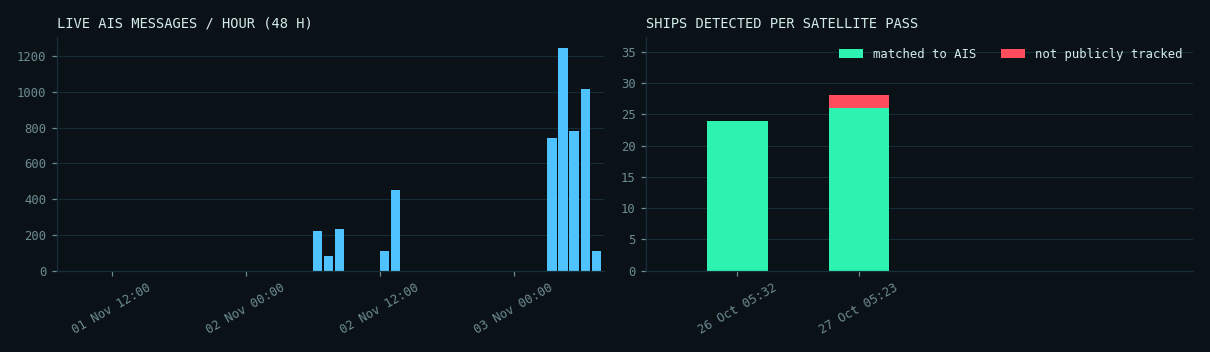
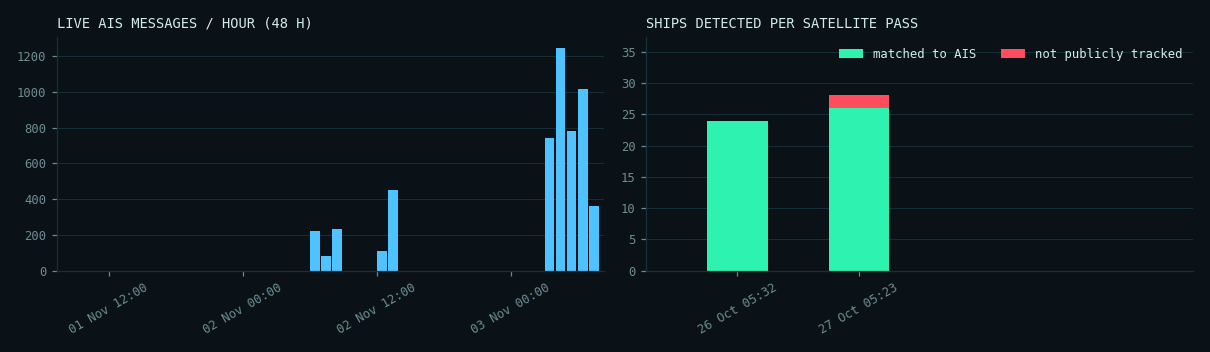
Automatic site update 2026-11-03 07:20 UTC

diff --git a/docs/denmark/index.html b/docs/denmark/index.html
@@ -83,13 +83,13 @@ footer{border-top:1px solid var(--line);padding:18px 0 28px;font:12px/1.6 var(--
   <div><div class="kicker">SAR &times; AIS &middot; MARITIME AWARENESS</div><div class="title">DARK VESSEL <b>DETECTION</b></div></div></a>
  <div class="status"><span class="pill"><span class="dot live"></span>AIS FEED <strong>LIVE</strong></span>
   <span class="pill">UTC <strong id="utc">--:--:--</strong></span>
-  <span class="pill">UPDATED <strong>03 Nov 07:06</strong></span></div>
+  <span class="pill">UPDATED <strong>03 Nov 07:20</strong></span></div>
 </div><nav class="tabs"><a class="" href="../index.html">OVERVIEW</a><a class="" href="../mumbai/index.html">MUMBAI</a><a class="on" href="../denmark/index.html">DENMARK</a><a class="" href="../nn/index.html">NEURAL NET</a><a class="" href="../demo/index.html">SIMULATION</a></nav></div></header>
 <main class="wrap"><div class="coords">SECTOR // DENMARK &middot; 55.55&ndash;55.85&deg;N &middot; 12.55&ndash;12.95&deg;E</div>
 <h1>Oresund, Copenhagen (Denmark/Sweden)</h1><p class="lede">Validation area. Sentinel-1 images it almost daily and coastal AIS coverage is dense, so the full match between radar and AIS can be shown and checked.</p>
 <div class="grid">
  <div class="panel"><div class="label">Live AIS feed</div><div class="value small"><span class='ok'>RECEIVING</span></div><div class="muted mono" style="font-size:12px;margin-top:6px">last message 0 min ago</div></div>
- <div class="panel"><div class="label">Ships broadcasting &middot; 30 min</div><div class="value cyan">56</div></div>
+ <div class="panel"><div class="label">Ships broadcasting &middot; 30 min</div><div class="value cyan">58</div></div>
  <div class="panel"><div class="label">Matched &middot; latest pass</div><div class="value ">26</div></div>
  <div class="panel"><div class="label">Not tracked &middot; high confidence</div><div class="value red">0</div></div>
  <div class="panel"><div class="label">Not tracked &middot; low confidence</div><div class="value amber">2</div></div>
@@ -98,7 +98,7 @@ footer{border-top:1px solid var(--line);padding:18px 0 28px;font:12px/1.6 var(--
 <div class="legend"><span><i style="background:var(--green)"></i>matched to AIS</span><span><i style="background:var(--red)"></i>not tracked &middot; high confidence</span>
 <span><i style="background:var(--amber)"></i>not tracked &middot; low confidence</span><span><i style="background:var(--cyan)"></i>live AIS position</span></div>
 <div id="map" class="map"></div><script>
-const D=[{"lon": 12.574560869565218, "lat": 55.849597826086956, "length_m": 72.681575622935, "score": 0.6554655519501138, "shore_km": 0.14150886088341372, "status": "matched", "reason": "", "confidence": "high", "crop": "", "ship_prob": 0.9335045218467712}, {"lon": 12.704759174311928, "lat": 55.82280412844037, "length_m": 364.1071436957287, "score": 0.9904753373251979, "shore_km": 9.407061429825474, "status": "matched", "reason": "", "confidence": "high", "crop": "", "ship_prob": 0.9868959784507751}, {"lon": 12.786416463414636, "lat": 55.804669512195126, "length_m": 155.0522474362954, "score": 0.9999646038759398, "shore_km": 4.658419014138412, "status": "matched", "reason": "", "confidence": "high", "crop": "", "ship_prob": 0.9993557333946228}, {"lon": 12.88229375, "lat": 55.849146875, "length_m": 53.38783327710226, "score": 0.9899546194309776, "shore_km": 0.9067240720863213, "status": "candidate", "reason": "same_spot_in_another_pass", "confidence": "low", "crop": "crops/S1-Oresund-20261027_37.png", "ship_prob": 0.7905591130256653}, {"lon": 12.604004166666668, "lat": 55.75985, "length_m": 141.84238362073958, "score": 0.6867268898684522, "shore_km": 0.07168283192738693, "status": "matched", "reason": "", "confidence": "high", "crop": "", "ship_prob": 0.5051270127296448}, {"lon": 12.605736764705883, "lat": 55.75241323529412, "length_m": 122.11483240811877, "score": 0.9136889320646264, "shore_km": 0.6454382429486746, "status": "candidate", "reason": "same_spot_in_another_pass", "confidence": "low", "crop": "crops/S1-Oresund-20261027_77.png", "ship_prob": 0.7927113175392151}, {"lon": 12.703722571428573, "lat": 55.77917742857143, "length_m": 223.0817648726515, "score": 0.9996320924909895, "shore_km": 5.943270442766068, "status": "matched", "reason": "", "confidence": "high", "crop": "", "ship_prob": 0.9938097596168518}, {"lon": 12.902757692307693, "lat": 55.75654230769231, "length_m": 65.46226537445588, "score": 0.7187896049600956, "shore_km": 0.03584141596369347, "status": "matched", "reason": "", "confidence": "high", "crop": "", "ship_prob": 0.8691755533218384}, {"lon": 12.589922222222222, "lat": 55.725764814814816, "length_m": 146.45480845096748, "score": 0.9957587025210503, "shore_km": 0.034771280891766385, "status": "matched", "reason": "", "confidence": "high", "crop": "", "ship_prob": 0.9983701109886169}, {"lon": 12.598472047244096, "lat": 55.72077913385827, "length_m": 207.62671185403417, "score": 0.609772230082722, "shore_km": 0.14016751439395445, "status": "matched", "reason": "", "confidence": "high", "crop": "", "ship_prob": 0.6074324250221252}, {"lon": 12.589218, "lat": 55.712854, "length_m": 90.49550243938293, "score": 0.6486089656085543, "shore_km": 0.043464101114707984, "status": "matched", "reason": "", "confidence": "high", "crop": "", "ship_prob": 0.9998902082443237}, {"lon": 12.59024090909091, "lat": 55.71147090909091, "length_m": 162.54265478639104, "score": 1.0, "shore_km": 0.06146752127277559, "status": "matched", "reason": "", "confidence": "high", "crop": "", "ship_prob": 0.9999992847442627}, {"lon": 12.597835937500001, "lat": 55.701648437500005, "length_m": 133.31776511703256, "score": 0.9396217092764791, "shore_km": 0.06789309632894441, "status": "matched", "reason": "", "confidence": "high", "crop": "", "ship_prob": 0.9999727010726929}, {"lon": 12.60914, "lat": 55.69712, "length_m": 65.36743236464424, "score": 0.7827588237578229, "shore_km": 0.03134240904220623, "status": "matched", "reason": "", "confidence": "high", "crop": "", "ship_prob": 0.9867132902145386}, {"lon": 12.668552272727274, "lat": 55.72007840909091, "length_m": 207.26605497726354, "score": 0.6251792307103263, "shore_km": 0.03584141596369347, "status": "matched", "reason": "", "confidence": "high", "crop": "", "ship_prob": 0.9087074398994446}, {"lon": 12.5996, "lat": 55.68885, "length_m": 40.00855981470757, "score": 0.7664068666153926, "shore_km": 0.024587008509110237, "status": "matched", "reason": "", "confidence": "high", "crop": "", "ship_prob": 0.9766618013381958}, {"lon": 12.595819230769232, "lat": 55.67989871794872, "length_m": 127.62371588738732, "score": 0.9426870407335851, "shore_km": 0.05068741655051085, "status": "matched", "reason": "", "confidence": "high", "crop": "", "ship_prob": 0.9998841285705566}, {"lon": 12.594722222222224, "lat": 55.67918888888889, "length_m": 40.64467714079742, "score": 0.7639524834029205, "shore_km": 0.043464101114707984, "status": "matched", "reason": "", "confidence": "high", "crop": "", "ship_prob": 0.9999454021453857}, {"lon": 12.610660714285714, "lat": 55.69618571428572, "length_m": 94.51225356515693, "score": 0.9621795096736379, "shore_km": 0.03134240904220623, "status": "matched", "reason": "", "confidence": "high", "crop": "", "ship_prob": 0.999042809009552}, {"lon": 12.649045000000001, "lat": 55.692155, "length_m": 80.63364746000343, "score": 0.8515033668168979, "shore_km": 0.8863693295037299, "status": "matched", "reason": "", "confidence": "high", "crop": "", "ship_prob": 0.4333752989768982}, {"lon": 12.630751724137932, "lat": 55.685453448275865, "length_m": 125.00287123881988, "score": 0.93629426700422, "shore_km": 0.043464101114707984, "status": "matched", "reason": "", "confidence": "high", "crop": "", "ship_prob": 0.9975905418395996}, {"lon": 12.634987254901962, "lat": 55.677338235294116, "length_m": 276.5478352749318, "score": 0.7686103584091717, "shore_km": 0.024587008509110237, "status": "matched", "reason": "", "confidence": "high", "crop": "", "ship_prob": 0.9729636907577515}, {"lon": 12.68766150442478, "lat": 55.69581814159292, "length_m": 176.8074930452176, "score": 0.923202226335388, "shore_km": 2.6834920471942074, "status": "matched", "reason": "", "confidence": "high", "crop": "", "ship_prob": 0.8427141904830933}, {"lon": 12.65826847826087, "lat": 55.63610108695652, "length_m": 174.21377549767067, "score": 0.9833187000337672, "shore_km": 0.043464101114707984, "status": "matched", "reason": "", "confidence": "high", "crop": "", "ship_prob": 0.9998973608016968}, {"lon": 12.680683333333334, "lat": 55.610910000000004, "length_m": 74.22790892756812, "score": 0.6314184609397504, "shore_km": 0.03134240904220623, "status": "matched", "reason": "", "confidence": "high", "crop": "", "ship_prob": 0.44054293632507324}, {"lon": 12.868352132196163, "lat": 55.60022420042644, "length_m": 299.20726350177785, "score": 0.9999960398718075, "shore_km": 2.8169298200726325, "status": "matched", "reason": "", "confidence": "high", "crop": "", "ship_prob": 0.9967911839485168}, {"lon": 12.680875, "lat": 55.59323, "length_m": 95.51211981545671, "score": 0.7585723176580392, "shore_km": 0.03584141596369347, "status": "matched", "reason": "", "confidence": "high", "crop": "", "ship_prob": 0.797581672668457}, {"lon": 12.706387741935485, "lat": 55.56306903225806, "length_m": 301.4640427512081, "score": 0.9999731380181186, "shore_km": 3.1965238712919084, "status": "matched", "reason": "", "confidence": "high", "crop": "", "ship_prob": 0.9941650032997131}],LIVE=[{"lon": 12.599025000000001, "lat": 55.68903, "sog": 0.0, "age": 26}, {"lon": 12.830375, "lat": 55.85599, "sog": 0.0, "age": 23}, {"lon": 12.999793333333335, "lat": 55.618365000000004, "sog": 0.0, "age": 21}, {"lon": 12.680413333333332, "lat": 55.611255, "sog": 0.0, "age": 17}, {"lon": 12.8329, "lat": 55.85850666666667, "sog": 0.0, "age": 17}, {"lon": 13.033296666666667, "lat": 55.62450666666667, "sog": 0.0, "age": 17}, {"lon": 12.729733333333334, "lat": 55.980090000000004, "sog": 0.0, "age": 17}, {"lon": 12.634875, "lat": 55.68712333333334, "sog": 0.0, "age": 15}, {"lon": 13.035135, "lat": 55.624705, "sog": 0.1, "age": 14}, {"lon": 12.594951666666667, "lat": 55.68244666666667, "sog": 0.0, "age": 12}, {"lon": 12.744458333333334, "lat": 55.993215, "sog": 0.0, "age": 11}, {"lon": 12.635359999999999, "lat": 55.67646666666667, "sog": 0.0, "age": 10}, {"lon": 12.646881666666667, "lat": 55.677405, "sog": 0.0, "age": 10}, {"lon": 12.676468333333334, "lat": 55.931866666666664, "sog": 0.1, "age": 10}, {"lon": 12.903493333333333, "lat": 55.756645000000006, "sog": 0.1, "age": 10}, {"lon": 12.665898333333333, "lat": 55.71978, "sog": 0.0, "age": 10}, {"lon": 12.997363333333334, "lat": 55.61365333333333, "sog": 0.0, "age": 8}, {"lon": 12.6761, "lat": 55.593650000000004, "sog": 0.0, "age": 8}, {"lon": 12.997250000000001, "lat": 55.613764999999994, "sog": 0.0, "age": 7}, {"lon": 12.823631666666667, "lat": 55.866393333333335, "sog": 0.1, "age": 7}, {"lon": 12.663045, "lat": 55.409144999999995, "sog": 10.6, "age": 7}, {"lon": 12.892173333333334, "lat": 55.523720000000004, "sog": 0.0, "age": 7}, {"lon": 12.827586666666667, "lat": 55.862743333333334, "sog": 0.0, "age": 7}, {"lon": 12.647471666666666, "lat": 55.67689166666666, "sog": 0.0, "age": 6}, {"lon": 12.593486666666667, "lat": 55.679185, "sog": 0.0, "age": 6}, {"lon": 12.603521666666667, "lat": 55.760575, "sog": 0.0, "age": 5}, {"lon": 12.831928333333334, "lat": 55.85404166666667, "sog": 0.0, "age": 5}, {"lon": 12.99016, "lat": 55.626886666666664, "sog": 0.0, "age": 5}, {"lon": 13.058496666666667, "lat": 55.67566166666666, "sog": 0.0, "age": 3}, {"lon": 12.90721, "lat": 55.695681666666665, "sog": 4.9, "age": 3}, {"lon": 12.82811, "lat": 55.86155, "sog": 0.0, "age": 3}, {"lon": 12.988948333333333, "lat": 55.626655, "sog": 0.0, "age": 2}, {"lon": 12.833716666666668, "lat": 55.85574999999999, "sog": 0.0, "age": 2}, {"lon": 12.825151666666667, "lat": 55.86394, "sog": 2.9, "age": 2}, {"lon": 12.825355, "lat": 55.865516666666664, "sog": 0.0, "age": 2}, {"lon": 12.676870000000001, "lat": 55.59395, "sog": 0.0, "age": 2}, {"lon": 12.825925000000002, "lat": 55.86255166666667, "sog": 3.1, "age": 1}, {"lon": 12.705055, "lat": 55.54807166666667, "sog": 7.2, "age": 1}, {"lon": 12.572731666666666, "lat": 55.850858333333335, "sog": 0.0, "age": 1}, {"lon": 12.680066666666667, "lat": 55.59290333333333, "sog": 0.0, "age": 1}, {"lon": 12.681201666666668, "lat": 55.81814833333333, "sog": 6.6, "age": 1}, {"lon": 12.592983333333333, "lat": 55.67927666666667, "sog": 0.0, "age": 1}, {"lon": 12.634118333333333, "lat": 55.67575333333333, "sog": 0.0, "age": 1}, {"lon": 12.687251666666667, "lat": 55.80775666666667, "sog": 8.6, "age": 1}, {"lon": 12.501029999999998, "lat": 55.611336666666666, "sog": 0.0, "age": 1}, {"lon": 13.033793333333334, "lat": 55.62455, "sog": 0.0, "age": 1}, {"lon": 12.835139999999999, "lat": 55.85987, "sog": 0.0, "age": 0}, {"lon": 12.708206666666666, "lat": 55.55923333333333, "sog": 11.6, "age": 0}, {"lon": 12.667008333333333, "lat": 55.71892833333333, "sog": 0.0, "age": 0}, {"lon": 12.702283333333332, "lat": 55.54927, "sog": 20.1, "age": 0}, {"lon": 12.675853333333333, "lat": 55.757308333333334, "sog": 6.9, "age": 0}, {"lon": 12.603495, "lat": 55.76050333333333, "sog": 0.0, "age": 0}, {"lon": 12.625293333333333, "lat": 55.691071666666666, "sog": 0.0, "age": 0}, {"lon": 12.484301666666665, "lat": 55.600676666666665, "sog": 0.7, "age": 0}, {"lon": 12.824216666666667, "lat": 55.8649, "sog": 3.2, "age": 0}, {"lon": 12.744421666666666, "lat": 55.993294999999996, "sog": 0.0, "age": 0}],B=[[55.55,12.55],[55.85,12.95]];const m=L.map('map',{zoomSnap:.25}).fitBounds(B);
+const D=[{"lon": 12.574560869565218, "lat": 55.849597826086956, "length_m": 72.681575622935, "score": 0.6554655519501138, "shore_km": 0.14150886088341372, "status": "matched", "reason": "", "confidence": "high", "crop": "", "ship_prob": 0.9335045218467712}, {"lon": 12.704759174311928, "lat": 55.82280412844037, "length_m": 364.1071436957287, "score": 0.9904753373251979, "shore_km": 9.407061429825474, "status": "matched", "reason": "", "confidence": "high", "crop": "", "ship_prob": 0.9868959784507751}, {"lon": 12.786416463414636, "lat": 55.804669512195126, "length_m": 155.0522474362954, "score": 0.9999646038759398, "shore_km": 4.658419014138412, "status": "matched", "reason": "", "confidence": "high", "crop": "", "ship_prob": 0.9993557333946228}, {"lon": 12.88229375, "lat": 55.849146875, "length_m": 53.38783327710226, "score": 0.9899546194309776, "shore_km": 0.9067240720863213, "status": "candidate", "reason": "same_spot_in_another_pass", "confidence": "low", "crop": "crops/S1-Oresund-20261027_37.png", "ship_prob": 0.7905591130256653}, {"lon": 12.604004166666668, "lat": 55.75985, "length_m": 141.84238362073958, "score": 0.6867268898684522, "shore_km": 0.07168283192738693, "status": "matched", "reason": "", "confidence": "high", "crop": "", "ship_prob": 0.5051270127296448}, {"lon": 12.605736764705883, "lat": 55.75241323529412, "length_m": 122.11483240811877, "score": 0.9136889320646264, "shore_km": 0.6454382429486746, "status": "candidate", "reason": "same_spot_in_another_pass", "confidence": "low", "crop": "crops/S1-Oresund-20261027_77.png", "ship_prob": 0.7927113175392151}, {"lon": 12.703722571428573, "lat": 55.77917742857143, "length_m": 223.0817648726515, "score": 0.9996320924909895, "shore_km": 5.943270442766068, "status": "matched", "reason": "", "confidence": "high", "crop": "", "ship_prob": 0.9938097596168518}, {"lon": 12.902757692307693, "lat": 55.75654230769231, "length_m": 65.46226537445588, "score": 0.7187896049600956, "shore_km": 0.03584141596369347, "status": "matched", "reason": "", "confidence": "high", "crop": "", "ship_prob": 0.8691755533218384}, {"lon": 12.589922222222222, "lat": 55.725764814814816, "length_m": 146.45480845096748, "score": 0.9957587025210503, "shore_km": 0.034771280891766385, "status": "matched", "reason": "", "confidence": "high", "crop": "", "ship_prob": 0.9983701109886169}, {"lon": 12.598472047244096, "lat": 55.72077913385827, "length_m": 207.62671185403417, "score": 0.609772230082722, "shore_km": 0.14016751439395445, "status": "matched", "reason": "", "confidence": "high", "crop": "", "ship_prob": 0.6074324250221252}, {"lon": 12.589218, "lat": 55.712854, "length_m": 90.49550243938293, "score": 0.6486089656085543, "shore_km": 0.043464101114707984, "status": "matched", "reason": "", "confidence": "high", "crop": "", "ship_prob": 0.9998902082443237}, {"lon": 12.59024090909091, "lat": 55.71147090909091, "length_m": 162.54265478639104, "score": 1.0, "shore_km": 0.06146752127277559, "status": "matched", "reason": "", "confidence": "high", "crop": "", "ship_prob": 0.9999992847442627}, {"lon": 12.597835937500001, "lat": 55.701648437500005, "length_m": 133.31776511703256, "score": 0.9396217092764791, "shore_km": 0.06789309632894441, "status": "matched", "reason": "", "confidence": "high", "crop": "", "ship_prob": 0.9999727010726929}, {"lon": 12.60914, "lat": 55.69712, "length_m": 65.36743236464424, "score": 0.7827588237578229, "shore_km": 0.03134240904220623, "status": "matched", "reason": "", "confidence": "high", "crop": "", "ship_prob": 0.9867132902145386}, {"lon": 12.668552272727274, "lat": 55.72007840909091, "length_m": 207.26605497726354, "score": 0.6251792307103263, "shore_km": 0.03584141596369347, "status": "matched", "reason": "", "confidence": "high", "crop": "", "ship_prob": 0.9087074398994446}, {"lon": 12.5996, "lat": 55.68885, "length_m": 40.00855981470757, "score": 0.7664068666153926, "shore_km": 0.024587008509110237, "status": "matched", "reason": "", "confidence": "high", "crop": "", "ship_prob": 0.9766618013381958}, {"lon": 12.595819230769232, "lat": 55.67989871794872, "length_m": 127.62371588738732, "score": 0.9426870407335851, "shore_km": 0.05068741655051085, "status": "matched", "reason": "", "confidence": "high", "crop": "", "ship_prob": 0.9998841285705566}, {"lon": 12.594722222222224, "lat": 55.67918888888889, "length_m": 40.64467714079742, "score": 0.7639524834029205, "shore_km": 0.043464101114707984, "status": "matched", "reason": "", "confidence": "high", "crop": "", "ship_prob": 0.9999454021453857}, {"lon": 12.610660714285714, "lat": 55.69618571428572, "length_m": 94.51225356515693, "score": 0.9621795096736379, "shore_km": 0.03134240904220623, "status": "matched", "reason": "", "confidence": "high", "crop": "", "ship_prob": 0.999042809009552}, {"lon": 12.649045000000001, "lat": 55.692155, "length_m": 80.63364746000343, "score": 0.8515033668168979, "shore_km": 0.8863693295037299, "status": "matched", "reason": "", "confidence": "high", "crop": "", "ship_prob": 0.4333752989768982}, {"lon": 12.630751724137932, "lat": 55.685453448275865, "length_m": 125.00287123881988, "score": 0.93629426700422, "shore_km": 0.043464101114707984, "status": "matched", "reason": "", "confidence": "high", "crop": "", "ship_prob": 0.9975905418395996}, {"lon": 12.634987254901962, "lat": 55.677338235294116, "length_m": 276.5478352749318, "score": 0.7686103584091717, "shore_km": 0.024587008509110237, "status": "matched", "reason": "", "confidence": "high", "crop": "", "ship_prob": 0.9729636907577515}, {"lon": 12.68766150442478, "lat": 55.69581814159292, "length_m": 176.8074930452176, "score": 0.923202226335388, "shore_km": 2.6834920471942074, "status": "matched", "reason": "", "confidence": "high", "crop": "", "ship_prob": 0.8427141904830933}, {"lon": 12.65826847826087, "lat": 55.63610108695652, "length_m": 174.21377549767067, "score": 0.9833187000337672, "shore_km": 0.043464101114707984, "status": "matched", "reason": "", "confidence": "high", "crop": "", "ship_prob": 0.9998973608016968}, {"lon": 12.680683333333334, "lat": 55.610910000000004, "length_m": 74.22790892756812, "score": 0.6314184609397504, "shore_km": 0.03134240904220623, "status": "matched", "reason": "", "confidence": "high", "crop": "", "ship_prob": 0.44054293632507324}, {"lon": 12.868352132196163, "lat": 55.60022420042644, "length_m": 299.20726350177785, "score": 0.9999960398718075, "shore_km": 2.8169298200726325, "status": "matched", "reason": "", "confidence": "high", "crop": "", "ship_prob": 0.9967911839485168}, {"lon": 12.680875, "lat": 55.59323, "length_m": 95.51211981545671, "score": 0.7585723176580392, "shore_km": 0.03584141596369347, "status": "matched", "reason": "", "confidence": "high", "crop": "", "ship_prob": 0.797581672668457}, {"lon": 12.706387741935485, "lat": 55.56306903225806, "length_m": 301.4640427512081, "score": 0.9999731380181186, "shore_km": 3.1965238712919084, "status": "matched", "reason": "", "confidence": "high", "crop": "", "ship_prob": 0.9941650032997131}],LIVE=[{"lon": 12.634875, "lat": 55.68712333333334, "sog": 0.0, "age": 29}, {"lon": 12.594951666666667, "lat": 55.68244666666667, "sog": 0.0, "age": 26}, {"lon": 12.903493333333333, "lat": 55.756645000000006, "sog": 0.1, "age": 24}, {"lon": 12.665898333333333, "lat": 55.71978, "sog": 0.0, "age": 24}, {"lon": 12.997363333333334, "lat": 55.61365333333333, "sog": 0.0, "age": 22}, {"lon": 12.6761, "lat": 55.593650000000004, "sog": 0.0, "age": 22}, {"lon": 12.663045, "lat": 55.409144999999995, "sog": 10.6, "age": 21}, {"lon": 12.827586666666667, "lat": 55.862743333333334, "sog": 0.0, "age": 20}, {"lon": 12.82811, "lat": 55.86155, "sog": 0.0, "age": 16}, {"lon": 12.835139999999999, "lat": 55.85987, "sog": 0.0, "age": 14}, {"lon": 12.488461666666666, "lat": 55.51738666666667, "sog": 0.0, "age": 13}, {"lon": 12.60352, "lat": 55.760601666666666, "sog": 0.0, "age": 13}, {"lon": 12.8329, "lat": 55.85850666666667, "sog": 0.0, "age": 13}, {"lon": 12.59353, "lat": 55.67917, "sog": 0.0, "age": 13}, {"lon": 12.676029999999999, "lat": 55.93215333333333, "sog": 0.1, "age": 12}, {"lon": 12.997250000000001, "lat": 55.61376833333334, "sog": 0.0, "age": 11}, {"lon": 12.68041, "lat": 55.611250000000005, "sog": 0.0, "age": 10}, {"lon": 12.988951666666667, "lat": 55.62667, "sog": 0.0, "age": 10}, {"lon": 12.833716666666668, "lat": 55.85573333333333, "sog": 0.0, "age": 10}, {"lon": 12.892159999999999, "lat": 55.52371, "sog": 0.0, "age": 10}, {"lon": 12.831928333333334, "lat": 55.85404166666667, "sog": 0.0, "age": 10}, {"lon": 13.035146666666666, "lat": 55.62470666666666, "sog": 0.1, "age": 9}, {"lon": 12.830416666666668, "lat": 55.85599666666667, "sog": 0.0, "age": 8}, {"lon": 12.483448333333333, "lat": 55.600406666666665, "sog": 0.7, "age": 8}, {"lon": 12.696653333333334, "lat": 55.414453333333334, "sog": 9.9, "age": 8}, {"lon": 12.666988333333334, "lat": 55.71894666666667, "sog": 0.1, "age": 7}, {"lon": 12.729971666666668, "lat": 55.752015, "sog": 0.1, "age": 7}, {"lon": 12.625296666666666, "lat": 55.691069999999996, "sog": 0.0, "age": 7}, {"lon": 12.647473333333332, "lat": 55.67689166666666, "sog": 0.0, "age": 6}, {"lon": 12.825328333333333, "lat": 55.865495, "sog": 0.0, "age": 6}, {"lon": 12.677506666666666, "lat": 55.741838333333334, "sog": 6.9, "age": 6}, {"lon": 12.680056666666667, "lat": 55.59290333333333, "sog": 0.0, "age": 5}, {"lon": 12.680935, "lat": 55.41054, "sog": 9.0, "age": 5}, {"lon": 12.592985, "lat": 55.679269999999995, "sog": 0.0, "age": 5}, {"lon": 12.679226666666667, "lat": 55.79846833333333, "sog": 6.8, "age": 5}, {"lon": 12.703795000000001, "lat": 55.52666166666667, "sog": 9.1, "age": 4}, {"lon": 12.70041, "lat": 55.59278833333334, "sog": 12.3, "age": 4}, {"lon": 12.680161666666667, "lat": 55.59283666666667, "sog": 1.0, "age": 4}, {"lon": 13.058491666666667, "lat": 55.67566166666666, "sog": 0.0, "age": 4}, {"lon": 12.990168333333335, "lat": 55.62689666666667, "sog": 0.0, "age": 4}, {"lon": 12.676883333333334, "lat": 55.59398, "sog": 0.0, "age": 3}, {"lon": 12.646880000000001, "lat": 55.677416666666666, "sog": 0.0, "age": 3}, {"lon": 13.033803333333333, "lat": 55.62457666666667, "sog": 0.0, "age": 2}, {"lon": 12.603505, "lat": 55.76053666666667, "sog": 0.0, "age": 2}, {"lon": 12.826133333333333, "lat": 55.85405, "sog": 2.5, "age": 2}, {"lon": 12.471191666666666, "lat": 55.427753333333335, "sog": 8.2, "age": 2}, {"lon": 12.744406666666666, "lat": 55.99328333333334, "sog": 0.0, "age": 1}, {"lon": 12.829715, "lat": 55.857085, "sog": 1.1, "age": 1}, {"lon": 12.886561666666667, "lat": 55.714798333333334, "sog": 5.3, "age": 1}, {"lon": 12.828818333333334, "lat": 55.857501666666664, "sog": 1.0, "age": 1}, {"lon": 12.823661666666668, "lat": 55.86637666666666, "sog": 0.1, "age": 1}, {"lon": 12.744443333333333, "lat": 55.99321333333333, "sog": 0.0, "age": 1}, {"lon": 12.677926666666668, "lat": 55.77401, "sog": 8.3, "age": 0}, {"lon": 12.630748333333335, "lat": 55.68984666666667, "sog": 0.0, "age": 0}, {"lon": 12.635413333333334, "lat": 55.67644166666666, "sog": 0.0, "age": 0}, {"lon": 12.501021666666666, "lat": 55.611336666666666, "sog": 0.0, "age": 0}, {"lon": 12.572745, "lat": 55.85085, "sog": 0.0, "age": 0}, {"lon": 12.63411, "lat": 55.675756666666665, "sog": 0.0, "age": 0}],B=[[55.55,12.55],[55.85,12.95]];const m=L.map('map',{zoomSnap:.25}).fitBounds(B);
 // re-fit once layout has settled: if the container had no size when the map was created, Leaflet falls back to zoom 0
 const refit=()=>{m.invalidateSize();m.fitBounds(B);};setTimeout(refit,0);window.addEventListener('load',refit);
 // standard OSM tiles (no API key), turned into a dark "radar console" basemap with a CSS filter (.radar-tiles)
@@ -116,7 +116,7 @@ L.control.layers(null,{'Radar detections (selected pass)':det,'Live AIS, last 30
 </script>
 <h2>Pass log</h2><div class='tablewrap'><table><thead><tr><th>pass (UTC)</th><th>ships</th><th>matched</th><th>not tracked</th><th>low conf.</th><th>match rate</th><th>AIS msgs</th></tr></thead><tbody><tr><td>2026-10-27 05:23 UTC</td><td>28</td><td class='ok'>26</td><td class='bad'>0</td><td style='color:var(--amber)'>2</td><td>93%</td><td>10687</td></tr><tr><td>2026-10-26 05:32 UTC</td><td>24</td><td class='ok'>24</td><td class='bad'>0</td><td style='color:var(--amber)'>0</td><td>100%</td><td>11603</td></tr></tbody></table></div>
 <h2>Telemetry</h2><img class="chart" src="charts.png" alt="AIS messages per hour and ships detected per pass">
-<p class="muted mono" style="font-size:12px">Feed gaps in the last 24 h: 15 (1199 min) &middot; AIS messages in the last hour: 1126</p>
+<p class="muted mono" style="font-size:12px">Feed gaps in the last 24 h: 15 (1185 min) &middot; AIS messages in the last hour: 1154</p>
 <h2>Recent Sentinel-1 acquisitions</h2><ul class="acq"><li>2026-11-02 05:23 UTC</li><li>2026-11-01 16:44 UTC</li><li>2026-11-01 05:31 UTC</li><li>2026-10-31 16:52 UTC</li><li>2026-10-30 17:00 UTC</li><li>2026-10-27 05:23 UTC</li><li>2026-10-26 05:32 UTC</li><li>2026-10-25 16:52 UTC</li></ul></main>
 <footer><div class="wrap">Data: Copernicus Sentinel-1 (ESA) &middot; AIS via aisstream.io and the Danish Maritime Authority &middot;
 coastlines, structures and basemap &copy; OpenStreetMap contributors. Flags are candidates for review, not accusations.</div></footer>

diff --git a/docs/index.html b/docs/index.html
@@ -83,7 +83,7 @@ footer{border-top:1px solid var(--line);padding:18px 0 28px;font:12px/1.6 var(--
   <div><div class="kicker">SAR &times; AIS &middot; MARITIME AWARENESS</div><div class="title">DARK VESSEL <b>DETECTION</b></div></div></a>
  <div class="status"><span class="pill"><span class="dot live"></span>AIS FEED <strong>LIVE</strong></span>
   <span class="pill">UTC <strong id="utc">--:--:--</strong></span>
-  <span class="pill">UPDATED <strong>03 Nov 07:06</strong></span></div>
+  <span class="pill">UPDATED <strong>03 Nov 07:20</strong></span></div>
 </div><nav class="tabs"><a class="on" href="index.html">OVERVIEW</a><a class="" href="mumbai/index.html">MUMBAI</a><a class="" href="denmark/index.html">DENMARK</a><a class="" href="nn/index.html">NEURAL NET</a><a class="" href="demo/index.html">SIMULATION</a></nav></div></header>
 <main class="wrap"><div class="coords">SYSTEM OVERVIEW</div>
 <h1>Ships the radar sees that nobody is tracking</h1>
@@ -91,7 +91,7 @@ footer{border-top:1px solid var(--line);padding:18px 0 28px;font:12px/1.6 var(--
 This system compares the two for each processed Sentinel-1 pass and lists the ships that appear on radar with no matching AIS signal.</p>
 <div class="grid" style="margin-top:18px"><div class="panel"><div class="label">Satellite passes processed</div><div class="value ">3</div></div><div class="panel"><div class="label">Ships matched to AIS</div><div class="value ">50</div></div>
 <div class="panel"><div class="label">Not tracked &middot; high confidence</div><div class="value red">0</div></div><div class="panel"><div class="label">Not tracked &middot; low confidence</div><div class="value amber">117</div></div>
-<div class="panel"><div class="label">Broadcasting now &middot; 30 min</div><div class="value cyan">56</div></div></div>
+<div class="panel"><div class="label">Broadcasting now &middot; 30 min</div><div class="value cyan">58</div></div></div>
 <p class="muted" style="font-size:13px;margin-top:10px"><b>High confidence</b> = no AIS ship nearby although the AIS feed was healthy and the
 target is within receiver range, and it is not at a spot where something was also seen on another pass. Everything else is
 <b>low confidence</b>: the data cannot support calling it dark (for example Mumbai, where no AIS was available for the pass at all).</p>
@@ -114,14 +114,14 @@ same pipeline using historical AIS. Next expected passes: Mumbai about 5 Nov 01:
 <div class="kv"><span>ships matched to AIS</span><span class="ok">50</span></div>
 <div class="kv"><span>not tracked, high confidence</span><span class="bad">0</span></div>
 <div class="kv"><span>not tracked, low confidence</span><span style="color:var(--amber)">2</span></div>
-<div class="kv"><span>broadcasting now (30 min)</span><span style="color:var(--cyan)">56</span></div>
+<div class="kv"><span>broadcasting now (30 min)</span><span style="color:var(--cyan)">58</span></div>
 <div class="go">OPEN SECTOR &rarr;</div></a></div>
 <h2>Read before trusting a flag</h2>
 <div class="alert"><b>"Not publicly tracked" is not "switched off".</b> Small boats often carry no public AIS, free AIS comes from coastal
 receivers with limited range, and ships under about 40 m are not reliably visible to the satellite. Low-confidence flags are the ones the
 data cannot support: beyond receiver range, during an AIS feed gap, or with no AIS recorded.</div>
 <h2>Automatic runs</h2><p class="muted mono" style="font-size:12.5px;margin-top:-4px">Each row is one automatic website rebuild, with the live AIS counts at that moment. Newest first.</p>
-<div class="tablewrap"><table><thead><tr><th>run (UTC)</th><th>mumbai live</th><th>mumbai msg/h</th><th>denmark live</th><th>denmark msg/h</th></tr></thead><tbody><tr><td>2026-11-03 07:06</td><td>0</td><td>0</td><td>56</td><td>1126</td></tr><tr><td>2026-11-03 07:05</td><td>0</td><td>0</td><td>56</td><td>1084</td></tr><tr><td>2026-11-03 06:51</td><td>0</td><td>0</td><td>56</td><td>848</td></tr><tr><td>2026-11-03 06:49</td><td>0</td><td>0</td><td>55</td><td>824</td></tr><tr><td>2026-11-03 06:35</td><td>0</td><td>0</td><td>58</td><td>800</td></tr><tr><td>2026-11-03 06:34</td><td>0</td><td>0</td><td>58</td><td>816</td></tr><tr><td>2026-11-03 06:20</td><td>0</td><td>0</td><td>51</td><td>876</td></tr><tr><td>2026-11-03 06:19</td><td>0</td><td>0</td><td>47</td><td>866</td></tr><tr><td>2026-11-03 05:46</td><td>0</td><td>0</td><td>62</td><td>986</td></tr><tr><td>2026-11-03 05:44</td><td>0</td><td>0</td><td>62</td><td>992</td></tr><tr><td>2026-11-03 05:30</td><td>0</td><td>0</td><td>57</td><td>972</td></tr><tr><td>2026-11-03 05:29</td><td>0</td><td>0</td><td>57</td><td>970</td></tr><tr><td>2026-11-03 05:14</td><td>0</td><td>0</td><td>50</td><td>1000</td></tr><tr><td>2026-11-03 05:13</td><td>0</td><td>0</td><td>50</td><td>1026</td></tr><tr><td>2026-11-03 04:59</td><td>0</td><td>0</td><td>58</td><td>1250</td></tr><tr><td>2026-11-03 04:58</td><td>0</td><td>0</td><td>59</td><td>1250</td></tr><tr><td>2026-11-03 04:44</td><td>0</td><td>0</td><td>60</td><td>1240</td></tr><tr><td>2026-11-03 04:42</td><td>0</td><td>0</td><td>59</td><td>1248</td></tr><tr><td>2026-11-03 04:28</td><td>0</td><td>0</td><td>58</td><td>1242</td></tr><tr><td>2026-11-03 04:27</td><td>0</td><td>0</td><td>57</td><td>1240</td></tr><tr><td>2026-11-03 04:12</td><td>0</td><td>0</td><td>56</td><td>994</td></tr><tr><td>2026-11-03 04:11</td><td>0</td><td>0</td><td>56</td><td>967</td></tr><tr><td>2026-11-03 03:57</td><td>0</td><td>0</td><td>59</td><td>666</td></tr><tr><td>2026-11-03 03:55</td><td>0</td><td>0</td><td>59</td><td>644</td></tr></tbody></table></div></main>
+<div class="tablewrap"><table><thead><tr><th>run (UTC)</th><th>mumbai live</th><th>mumbai msg/h</th><th>denmark live</th><th>denmark msg/h</th></tr></thead><tbody><tr><td>2026-11-03 07:20</td><td>0</td><td>0</td><td>58</td><td>1154</td></tr><tr><td>2026-11-03 07:06</td><td>0</td><td>0</td><td>56</td><td>1126</td></tr><tr><td>2026-11-03 07:05</td><td>0</td><td>0</td><td>56</td><td>1084</td></tr><tr><td>2026-11-03 06:51</td><td>0</td><td>0</td><td>56</td><td>848</td></tr><tr><td>2026-11-03 06:49</td><td>0</td><td>0</td><td>55</td><td>824</td></tr><tr><td>2026-11-03 06:35</td><td>0</td><td>0</td><td>58</td><td>800</td></tr><tr><td>2026-11-03 06:34</td><td>0</td><td>0</td><td>58</td><td>816</td></tr><tr><td>2026-11-03 06:20</td><td>0</td><td>0</td><td>51</td><td>876</td></tr><tr><td>2026-11-03 06:19</td><td>0</td><td>0</td><td>47</td><td>866</td></tr><tr><td>2026-11-03 05:46</td><td>0</td><td>0</td><td>62</td><td>986</td></tr><tr><td>2026-11-03 05:44</td><td>0</td><td>0</td><td>62</td><td>992</td></tr><tr><td>2026-11-03 05:30</td><td>0</td><td>0</td><td>57</td><td>972</td></tr><tr><td>2026-11-03 05:29</td><td>0</td><td>0</td><td>57</td><td>970</td></tr><tr><td>2026-11-03 05:14</td><td>0</td><td>0</td><td>50</td><td>1000</td></tr><tr><td>2026-11-03 05:13</td><td>0</td><td>0</td><td>50</td><td>1026</td></tr><tr><td>2026-11-03 04:59</td><td>0</td><td>0</td><td>58</td><td>1250</td></tr><tr><td>2026-11-03 04:58</td><td>0</td><td>0</td><td>59</td><td>1250</td></tr><tr><td>2026-11-03 04:44</td><td>0</td><td>0</td><td>60</td><td>1240</td></tr><tr><td>2026-11-03 04:42</td><td>0</td><td>0</td><td>59</td><td>1248</td></tr><tr><td>2026-11-03 04:28</td><td>0</td><td>0</td><td>58</td><td>1242</td></tr><tr><td>2026-11-03 04:27</td><td>0</td><td>0</td><td>57</td><td>1240</td></tr><tr><td>2026-11-03 04:12</td><td>0</td><td>0</td><td>56</td><td>994</td></tr><tr><td>2026-11-03 04:11</td><td>0</td><td>0</td><td>56</td><td>967</td></tr><tr><td>2026-11-03 03:57</td><td>0</td><td>0</td><td>59</td><td>666</td></tr></tbody></table></div></main>
 <footer><div class="wrap">Data: Copernicus Sentinel-1 (ESA) &middot; AIS via aisstream.io and the Danish Maritime Authority &middot;
 coastlines, structures and basemap &copy; OpenStreetMap contributors. Flags are candidates for review, not accusations.</div></footer>
 <script>(function(){const e=document.getElementById('utc');const t=()=>e.textContent=new Date().toISOString().slice(11,19);t();setInterval(t,1000);})();</script>

diff --git a/docs/mumbai/index.html b/docs/mumbai/index.html
@@ -83,7 +83,7 @@ footer{border-top:1px solid var(--line);padding:18px 0 28px;font:12px/1.6 var(--
   <div><div class="kicker">SAR &times; AIS &middot; MARITIME AWARENESS</div><div class="title">DARK VESSEL <b>DETECTION</b></div></div></a>
  <div class="status"><span class="pill"><span class="dot live"></span>AIS FEED <strong>LIVE</strong></span>
   <span class="pill">UTC <strong id="utc">--:--:--</strong></span>
-  <span class="pill">UPDATED <strong>03 Nov 07:06</strong></span></div>
+  <span class="pill">UPDATED <strong>03 Nov 07:20</strong></span></div>
 </div><nav class="tabs"><a class="" href="../index.html">OVERVIEW</a><a class="on" href="../mumbai/index.html">MUMBAI</a><a class="" href="../denmark/index.html">DENMARK</a><a class="" href="../nn/index.html">NEURAL NET</a><a class="" href="../demo/index.html">SIMULATION</a></nav></div></header>
 <main class="wrap"><div class="coords">SECTOR // MUMBAI &middot; 18.80&ndash;19.10&deg;N &middot; 72.55&ndash;72.95&deg;E</div>
 <h1>Mumbai coast and harbour, India</h1><p class="lede">The project's target area. Sentinel-1 images it about once every 12 days, and free AIS comes only from coastal receivers, so many unmatched ships here are simply out of receiver range.</p>
@@ -116,7 +116,7 @@ L.control.layers(null,{'Radar detections (selected pass)':det,'Live AIS, last 30
 </script>
 <h2>Pass log</h2><div class='tablewrap'><table><thead><tr><th>pass (UTC)</th><th>ships</th><th>matched</th><th>not tracked</th><th>low conf.</th><th>match rate</th><th>AIS msgs</th></tr></thead><tbody><tr><td>2026-10-24 01:02 UTC</td><td>115</td><td class='ok'>0</td><td class='bad'>0</td><td style='color:var(--amber)'>115</td><td>0%</td><td>0</td></tr></tbody></table></div>
 <h2>Telemetry</h2><img class="chart" src="charts.png" alt="AIS messages per hour and ships detected per pass">
-<p class="muted mono" style="font-size:12px">Feed gaps in the last 24 h: 15 (1199 min) &middot; AIS messages in the last hour: 0</p>
+<p class="muted mono" style="font-size:12px">Feed gaps in the last 24 h: 15 (1185 min) &middot; AIS messages in the last hour: 0</p>
 <h2>Recent Sentinel-1 acquisitions</h2><ul class="acq"><li>2026-10-24 01:02 UTC</li></ul></main>
 <footer><div class="wrap">Data: Copernicus Sentinel-1 (ESA) &middot; AIS via aisstream.io and the Danish Maritime Authority &middot;
 coastlines, structures and basemap &copy; OpenStreetMap contributors. Flags are candidates for review, not accusations.</div></footer>

diff --git a/docs/demo/index.html b/docs/demo/index.html
@@ -83,7 +83,7 @@ footer{border-top:1px solid var(--line);padding:18px 0 28px;font:12px/1.6 var(--
   <div><div class="kicker">SAR &times; AIS &middot; MARITIME AWARENESS</div><div class="title">DARK VESSEL <b>DETECTION</b></div></div></a>
  <div class="status"><span class="pill"><span class="dot live"></span>AIS FEED <strong>LIVE</strong></span>
   <span class="pill">UTC <strong id="utc">--:--:--</strong></span>
-  <span class="pill">UPDATED <strong>03 Nov 07:06</strong></span></div>
+  <span class="pill">UPDATED <strong>03 Nov 07:20</strong></span></div>
 </div><nav class="tabs"><a class="" href="../index.html">OVERVIEW</a><a class="" href="../mumbai/index.html">MUMBAI</a><a class="" href="../denmark/index.html">DENMARK</a><a class="" href="../nn/index.html">NEURAL NET</a><a class="on" href="../demo/index.html">SIMULATION</a></nav></div></header>
 <main class="wrap"><div class="coords">SIMULATION // SYNTHETIC SCENES WITH KNOWN GROUND TRUTH</div>
 <h1>Simulation: the whole pipeline with a known answer</h1>

diff --git a/docs/nn/index.html b/docs/nn/index.html
@@ -83,7 +83,7 @@ footer{border-top:1px solid var(--line);padding:18px 0 28px;font:12px/1.6 var(--
   <div><div class="kicker">SAR &times; AIS &middot; MARITIME AWARENESS</div><div class="title">DARK VESSEL <b>DETECTION</b></div></div></a>
  <div class="status"><span class="pill"><span class="dot live"></span>AIS FEED <strong>LIVE</strong></span>
   <span class="pill">UTC <strong id="utc">--:--:--</strong></span>
-  <span class="pill">UPDATED <strong>03 Nov 07:06</strong></span></div>
+  <span class="pill">UPDATED <strong>03 Nov 07:20</strong></span></div>
 </div><nav class="tabs"><a class="" href="../index.html">OVERVIEW</a><a class="" href="../mumbai/index.html">MUMBAI</a><a class="" href="../denmark/index.html">DENMARK</a><a class="on" href="../nn/index.html">NEURAL NET</a><a class="" href="../demo/index.html">SIMULATION</a></nav></div></header>
 <main class="wrap"><div class="coords">NEURAL NETWORK // SHIPCNN</div>
 <h1>ShipCNN: our own convolutional network that decides "is this a ship?"</h1>
